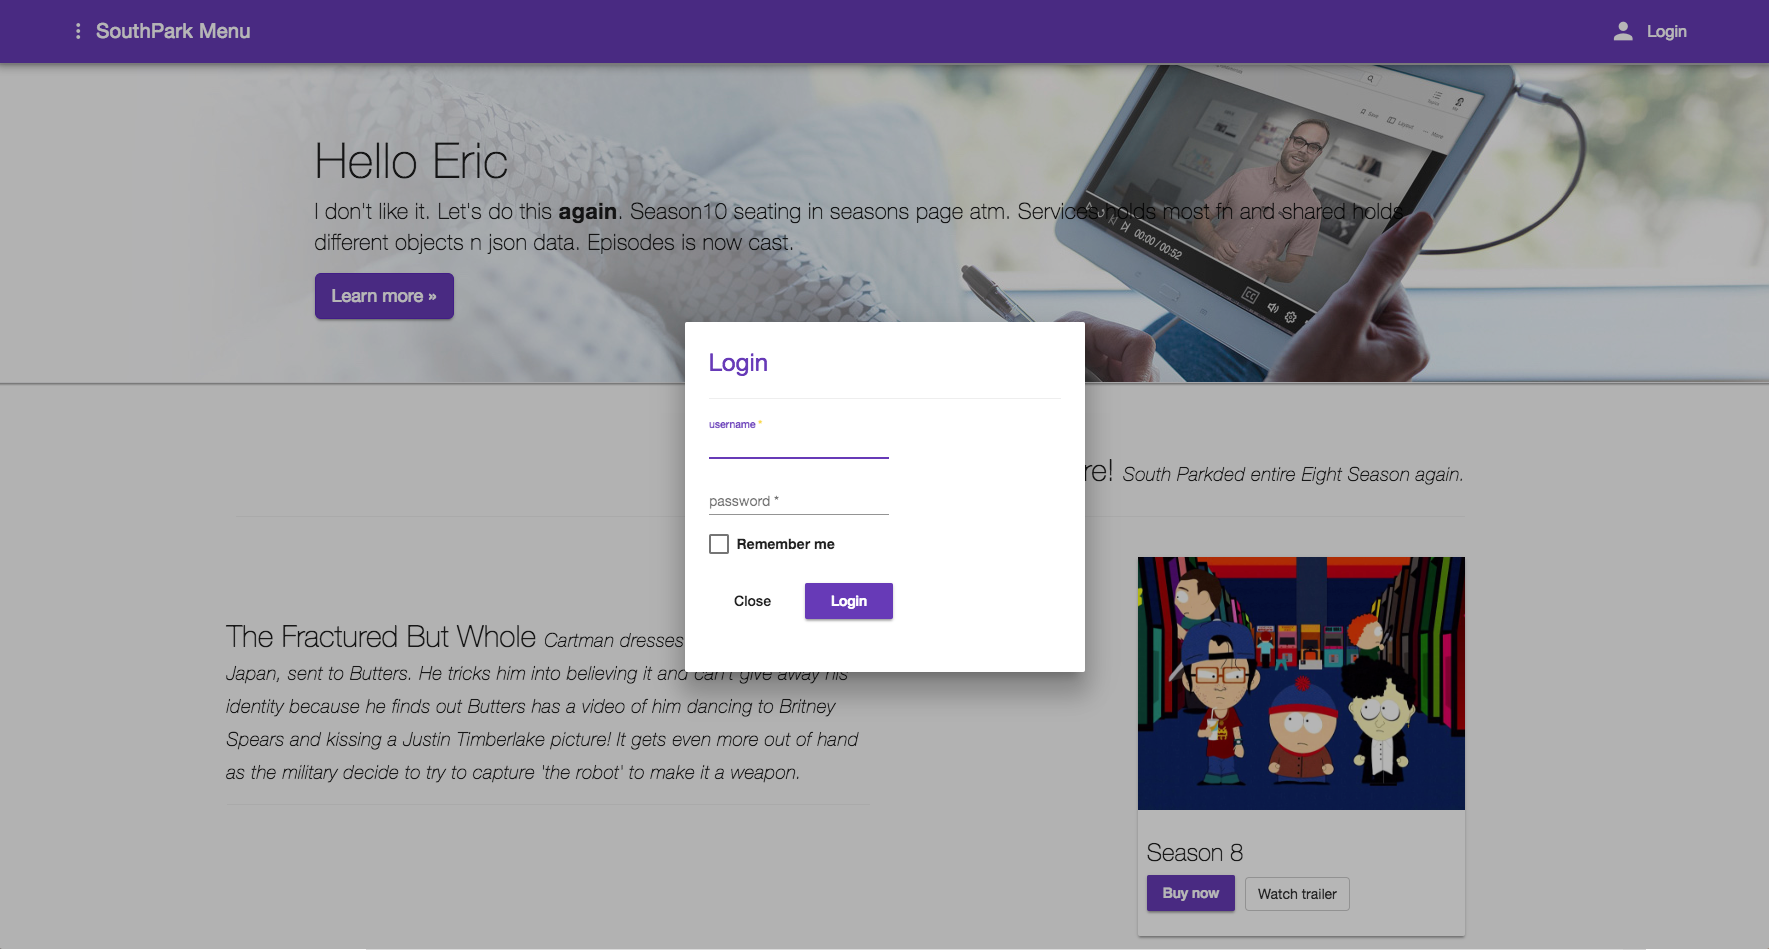
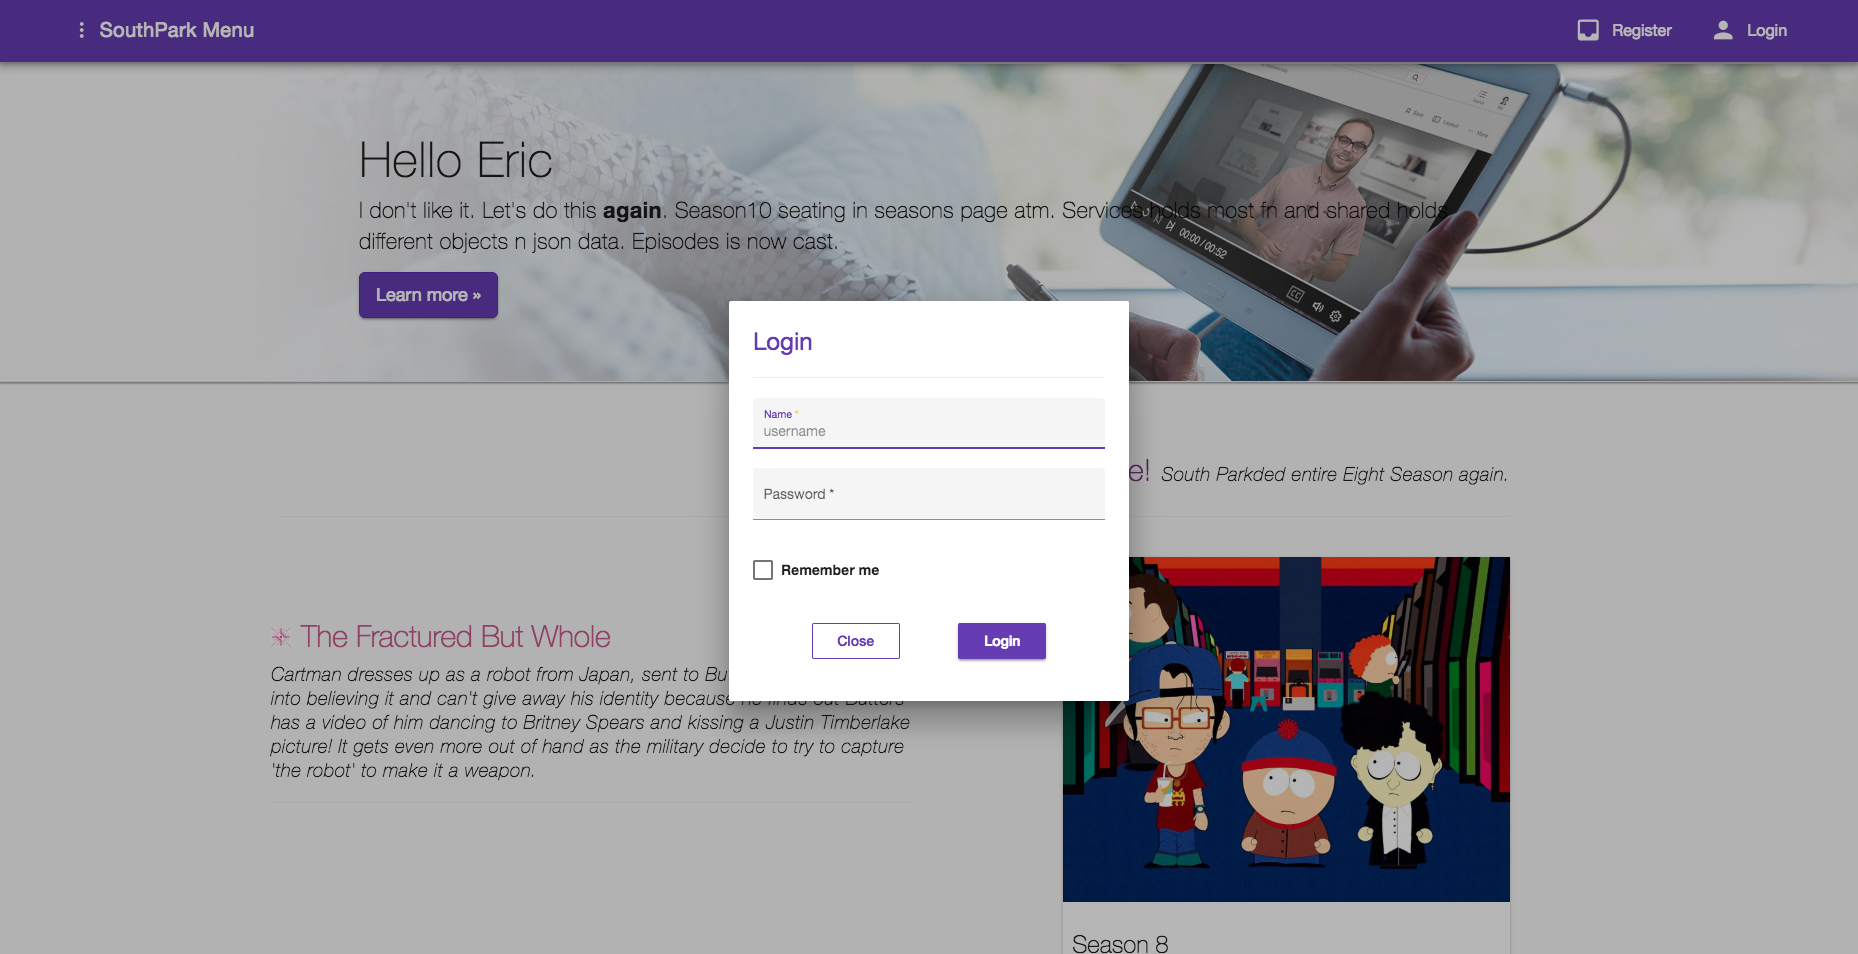
updates

Changed region(s): [[0.1244, 0.0305, 0.9949, 1.0], [0.0, 0.3968, 0.2487, 0.4274], [0.0622, 0.0, 0.1555, 0.0611]]

diff --git a/proj2/README.md b/proj2/README.md
@@ -63,6 +63,18 @@ logs:  [___proj2___][`work-in-progress`]<kbd>[southpark]</kbd>
 
 <br/>
 
+![](src/assets/images/screenshots/register.png)
+
+<br/>
+
+<br/>
+
+![](src/assets/images/screenshots/login.png)
+
+<br/>
+
+<br/>
+
 ![](src/assets/images/screenshots/seasons.png)
 
 <br/>
